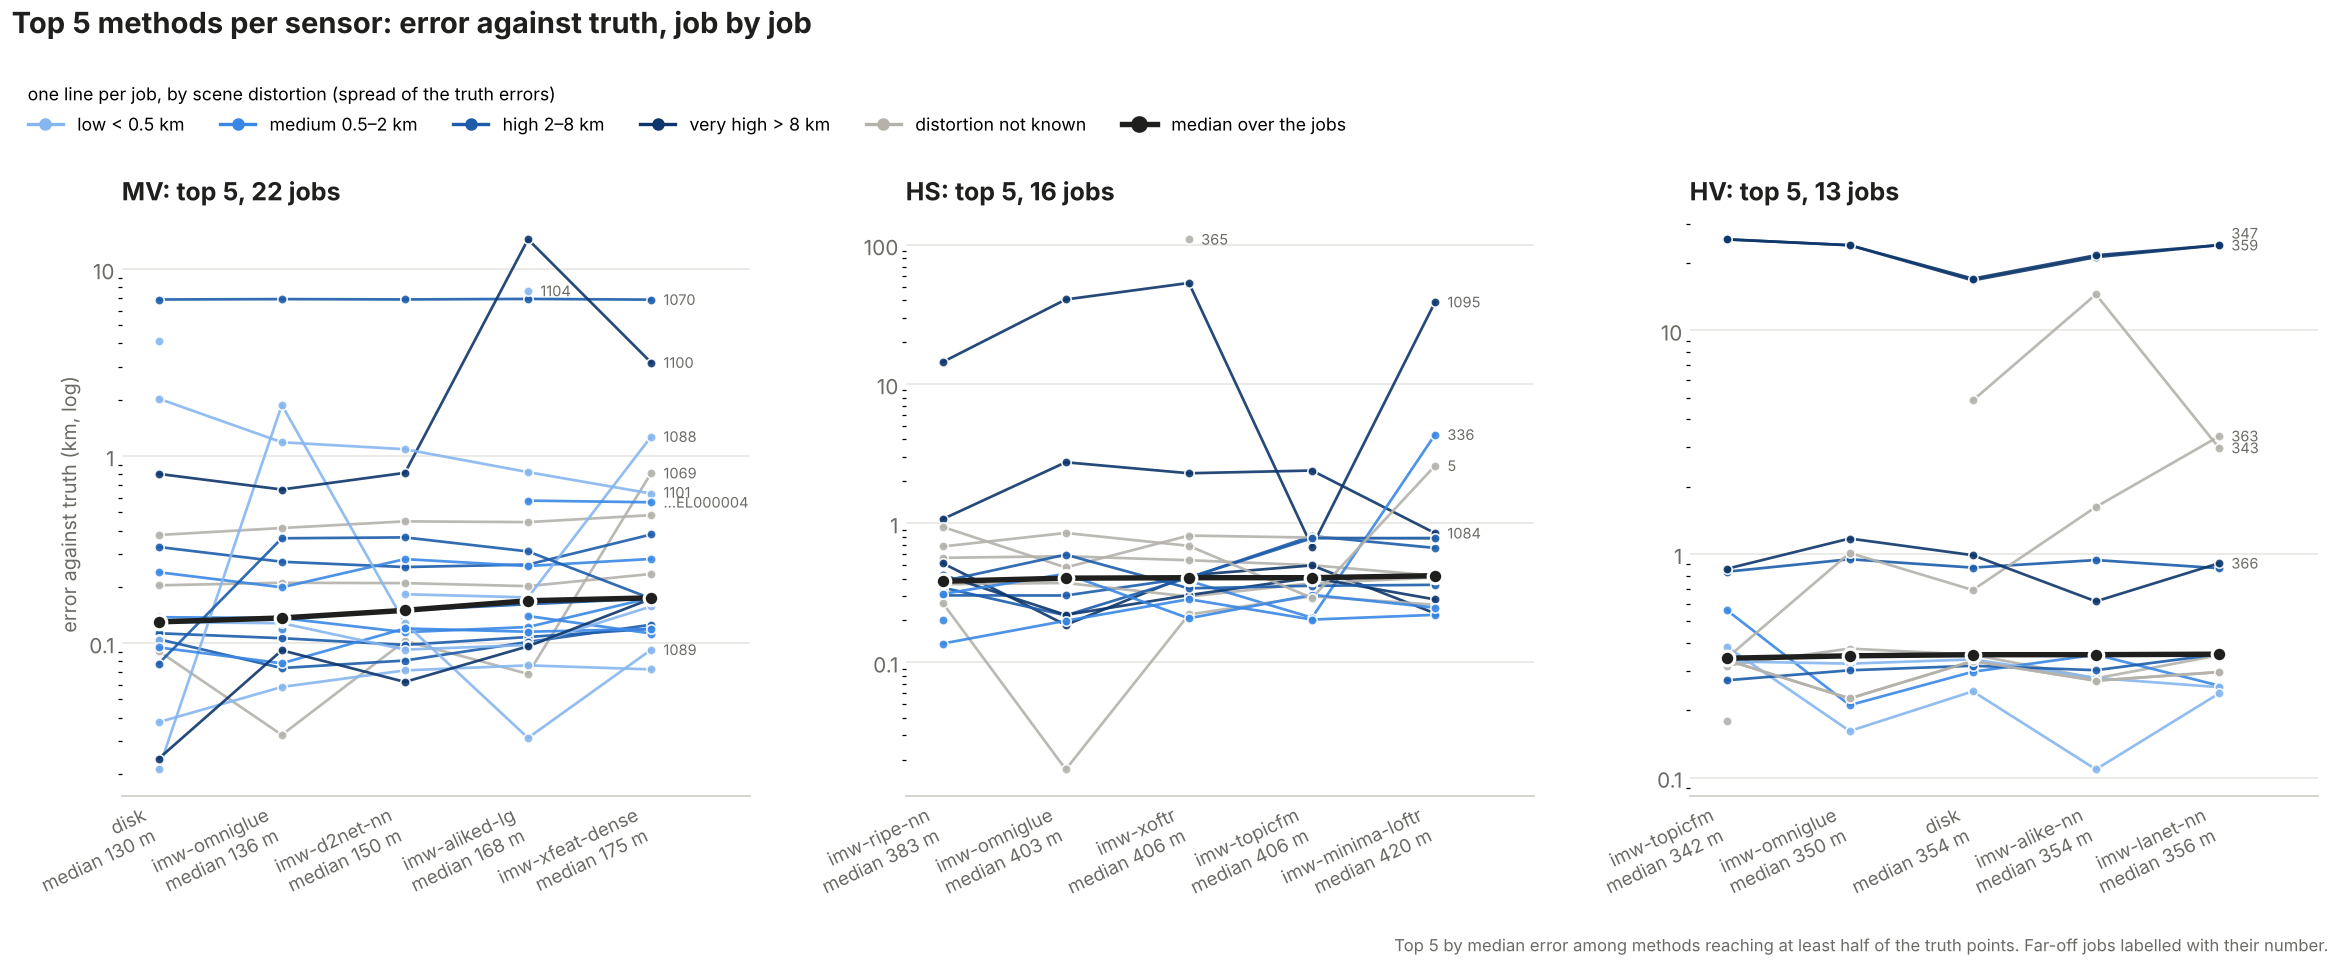
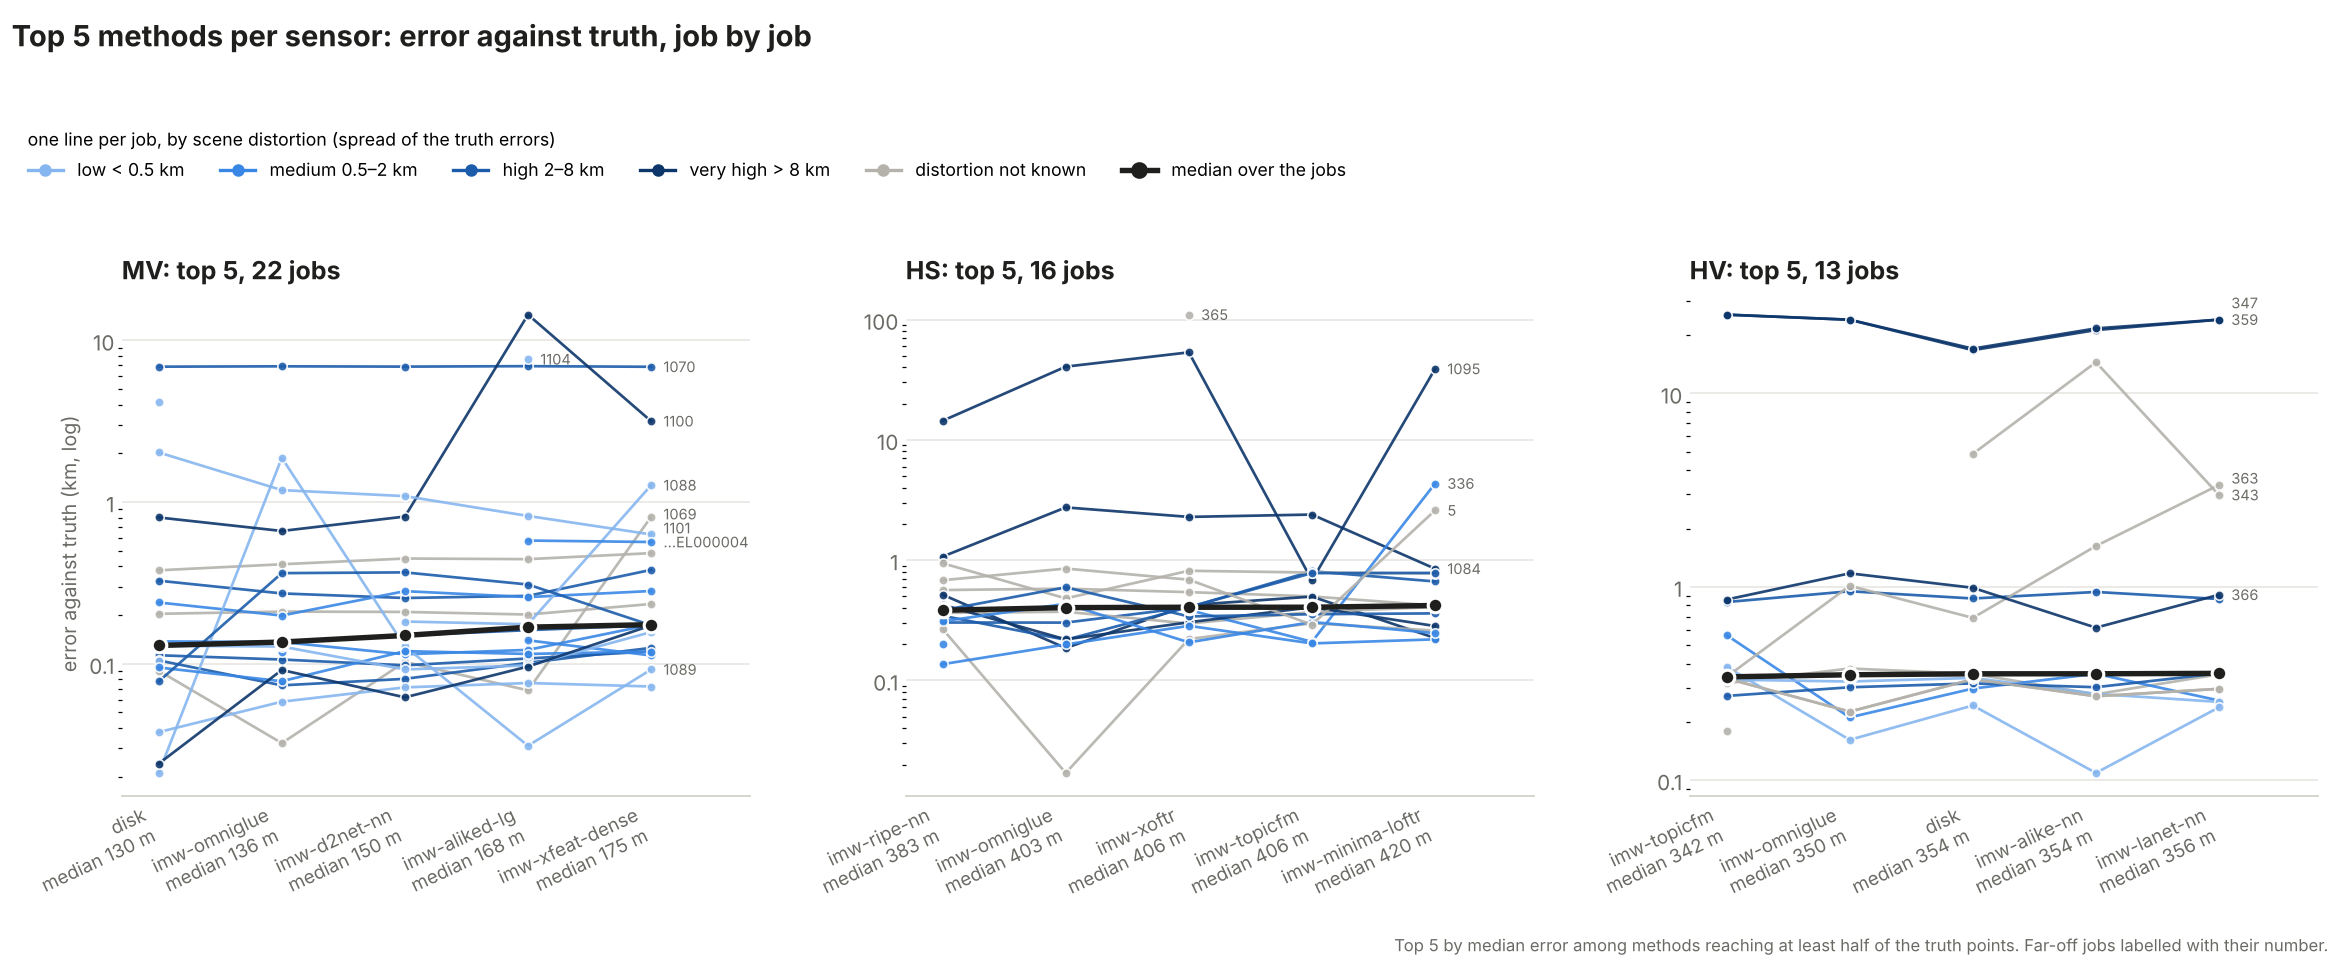
Plot: top 10 methods per sensor for jobs above 400 (and later workstation runs), smooth lines
Server jobs above --after-job (400) plus the workstation runs started after
the first of them; one smooth (shape-preserving, log) curve per job through
its truth errors with the top 10 methods (TOP10_BY_JOB_AFTER_400.png).

Claude-Session: https://claude.ai/code/session_0198cj5YTzAwzWGU6zUkU3Li

diff --git a/g1a_automatch/automatch_deviation.py b/g1a_automatch/automatch_deviation.py
@@ -49,6 +49,9 @@ def job_distortion(log_dir: str, job: str) -> Dict:
     txt = ''.join(open(p, errors='ignore').read() for p in sorted(glob.glob(os.path.join(log_dir, f'automatch_{base}*.log'))))
     m = SENSOR_RE.search(txt)
     r = {'job': job, 'sensor': m.group(1) if m else ''}
+    ts = re.search(r'(20\d\d)[-/](\d\d)[-/](\d\d)[ T](\d\d):(\d\d)', txt)
+    if ts:
+        r['started'] = '{}-{}-{} {}:{}'.format(*ts.groups())
     mm = MANUAL_RE.search(txt)
     if mm:
         n, me, mn, rme, rmn = map(float, mm.groups())
@@ -237,7 +240,32 @@ def top_detectors(t, top: int, min_reach: float = 0.5):
     return med.index[:top].tolist(), med
 
 
-def plot_lines(table, png: str, top: int = 5, min_reach: float = 0.5) -> str:
+def _smooth(x, y, n: int = 24):
+    """A smooth curve through (x, y) on a log y axis: shape-preserving cubic
+    (PCHIP) in log10(y), so it never overshoots between two methods; NaN gaps
+    split it."""
+    import numpy as np
+    from scipy.interpolate import PchipInterpolator
+    out = []
+    ok = np.isfinite(y)
+    i = 0
+    while i < len(x):
+        if not ok[i]:
+            i += 1
+            continue
+        j = i
+        while j + 1 < len(x) and ok[j + 1]:
+            j += 1
+        xs, ys = np.asarray(x[i:j + 1], float), np.log10(np.asarray(y[i:j + 1], float))
+        if len(xs) >= 2:
+            xx = np.linspace(xs[0], xs[-1], n * (len(xs) - 1) + 1)
+            out.append((xx, 10 ** PchipInterpolator(xs, ys)(xx)))
+        i = j + 1
+    return out
+
+
+def plot_lines(table, png: str, top: int = 5, min_reach: float = 0.5, smooth: bool = False,
+               title: str = '', note: str = '') -> str:
     """Per sensor, its top methods on the x axis, the truth error on the y axis,
     one line per job through its errors with those methods (colour: the scene's
     distortion level, grey when not known); the median over the jobs bold."""
@@ -251,9 +279,15 @@ def plot_lines(table, png: str, top: int = 5, min_reach: float = 0.5) -> str:
     sensors = [s for s in sensors
                if table[table['sensor'] == s].groupby('detector')['truth_rmse_m'].median().min() <= 10000.0]
     labels = [lab for _, _, lab in LEVELS]
-    fig, axes = plt.subplots(1, len(sensors), figsize=(5.2 * len(sensors), 6.4), squeeze=False)
+    rows = top > 5                                   # many methods: one sensor per row
+    if rows:
+        fig, axes = plt.subplots(len(sensors), 1, figsize=(13, 4.6 * len(sensors) + 1.6), squeeze=False)
+        axes = axes[:, 0]
+    else:
+        fig, axes = plt.subplots(1, len(sensors), figsize=(5.2 * len(sensors), 6.4), squeeze=False)
+        axes = axes[0]
     fig.patch.set_facecolor(SURFACE)
-    for ax, s in zip(axes[0], sensors):
+    for ax, s in zip(axes, sensors):
         t = table[table['sensor'] == s]
         dets, med = top_detectors(t, top, min_reach)
         piv = t[t['detector'].isin(dets)].pivot_table(index='job', columns='detector', values='truth_rmse_m',
@@ -265,25 +299,34 @@ def plot_lines(table, png: str, top: int = 5, min_reach: float = 0.5) -> str:
             lv = lvl.get(job, '')
             col = LEVEL_COLORS[labels.index(lv)] if lv in labels else UNKNOWN
             y = row.to_numpy(float)
-            ax.plot(x, y, color=col, lw=1.3, alpha=0.9, marker='o', markersize=4.5, markeredgecolor=SURFACE,
-                    markeredgewidth=0.8, zorder=2)
+            if smooth:
+                for xx, yy in _smooth(x, y):
+                    ax.plot(xx, yy, color=col, lw=1.3, alpha=0.9, zorder=2)
+                ax.plot(x, y, ls='', color=col, marker='o', markersize=4.5, markeredgecolor=SURFACE,
+                        markeredgewidth=0.8, zorder=3)
+            else:
+                ax.plot(x, y, color=col, lw=1.3, alpha=0.9, marker='o', markersize=4.5, markeredgecolor=SURFACE,
+                        markeredgewidth=0.8, zorder=2)
             last = np.where(np.isfinite(y))[0]
             if len(last) and np.nanmax(y) >= 3 * float(np.nanmedian(piv.to_numpy())):   # label the far-off jobs
                 k = last[-1]
                 tags.append([x[k], y[k], str(job) if len(str(job)) <= 10 else '…' + str(job)[-8:]])
-        tags.sort(key=lambda r: r[1])                       # spread the labels: at least 13 % apart (log axis)
+        tags.sort(key=lambda r: r[1])                       # spread the labels: at least 22 % apart (log axis)
         for i in range(1, len(tags)):
-            if tags[i][0] == tags[i - 1][0] and tags[i][1] < tags[i - 1][1] * 1.13:
-                tags[i][1] = tags[i - 1][1] * 1.13
+            if tags[i][0] == tags[i - 1][0] and tags[i][1] < tags[i - 1][1] * 1.22:
+                tags[i][1] = tags[i - 1][1] * 1.22
         for tx, ty, lab in tags:
             ax.text(tx + 0.1, ty, lab, fontsize=7, color=MUTED, va='center')
-        ax.plot(x, [med[d] / 1000.0 for d in dets], color=INK, lw=2.6, marker='o', markersize=7,
-                markeredgecolor=SURFACE, markeredgewidth=1.5, zorder=4)
+        my = np.array([med[d] / 1000.0 for d in dets])
+        for xx, yy in (_smooth(x, my) if smooth else [(x, my)]):
+            ax.plot(xx, yy, color=INK, lw=2.6, zorder=4)
+        ax.plot(x, my, ls='', color=INK, marker='o', markersize=7, markeredgecolor=SURFACE, markeredgewidth=1.5,
+                zorder=5)
         ax.set_yscale('log')
         ax.yaxis.set_major_formatter(matplotlib.ticker.FuncFormatter(lambda v, _p: f'{v:g}'))
         ax.set_xticks(x)
-        ax.set_xticklabels([f'{d}\nmedian {med[d]:.0f} m' for d in dets], rotation=25, ha='right', fontsize=9,
-                           color=INK)
+        ax.set_xticklabels([f'{d}\nmedian {med[d]:.0f} m' for d in dets], rotation=0 if rows else 25,
+                           ha='center' if rows else 'right', fontsize=8.5 if rows else 9, color=INK)
         ax.set_xlim(-0.3, len(dets) - 0.2)
         ax.grid(axis='y', color='#e7e6e2', lw=0.8, zorder=0)
         ax.tick_params(length=0, colors=MUTED)
@@ -292,19 +335,23 @@ def plot_lines(table, png: str, top: int = 5, min_reach: float = 0.5) -> str:
         ax.spines['bottom'].set_color('#cfcdc6')
         ax.set_title(f'{s}: top {len(dets)}, {len(piv)} jobs', loc='left', fontsize=12, fontweight='bold',
                      color=INK)
-    axes[0][0].set_ylabel('error against truth (km, log)', fontsize=9.5, color=MUTED)
+    for ax in (axes if rows else axes[:1]):
+        ax.set_ylabel('error against truth (km, log)', fontsize=9.5, color=MUTED)
     handles = [Line2D([], [], color=c, lw=1.6, marker='o', markersize=5, label=lab.replace('\n', ' '))
                for c, lab in zip(LEVEL_COLORS, labels)]
     handles += [Line2D([], [], color=UNKNOWN, lw=1.6, marker='o', markersize=5, label='distortion not known'),
                 Line2D([], [], color=INK, lw=2.6, marker='o', markersize=7, label='median over the jobs')]
-    fig.legend(handles=handles, loc='upper left', bbox_to_anchor=(0.005, 0.93), ncol=6, frameon=False,
+    top_y = 1 - 0.75 / fig.get_figheight()
+    fig.legend(handles=handles, loc='upper left', bbox_to_anchor=(0.005, top_y), ncol=6, frameon=False,
                fontsize=8.5, title='one line per job, by scene distortion (spread of the truth errors)',
                title_fontsize=8.5, alignment='left')
-    fig.text(0.005, 0.995, 'Top 5 methods per sensor: error against truth, job by job', ha='left', va='top',
+    fig.text(0.005, 1 - 0.12 / fig.get_figheight(),
+             title or f'Top {top} methods per sensor: error against truth, job by job', ha='left', va='top',
              fontsize=14, fontweight='bold', color=INK)
-    fig.text(0.995, 0.005, 'Top 5 by median error among methods reaching at least half of the truth points. '
-             'Far-off jobs labelled with their number.', ha='right', va='bottom', fontsize=8, color=MUTED)
-    fig.tight_layout(rect=(0, 0.03, 1, 0.84), w_pad=2.0)
+    fig.text(0.995, 0.005, (note + '   ' if note else '') + f'Top {top} by median error among methods reaching at '
+             'least half of the truth points. Far-off jobs labelled with their number.', ha='right', va='bottom',
+             fontsize=8, color=MUTED)
+    fig.tight_layout(rect=(0, 0.03, 1, 1 - 1.55 / fig.get_figheight()), w_pad=2.0, h_pad=2.5)
     fig.savefig(png, dpi=150, facecolor=SURFACE)
     plt.close(fig)
     return png
@@ -389,10 +436,34 @@ def plot(table, jobs, png: str, min_jobs: int = 2) -> str:
     return png
 
 
+def is_workstation(job: str) -> bool:
+    """A workstation run: not a server job number (a product name, or a long ID)."""
+    b = str(job).split('_')[0]
+    return not b.isdigit() or int(b) >= 100000
+
+
+def recent_jobs(jobs, after_job: int):
+    """(server jobs above after_job, plus the workstation runs that started at
+    or after the first of them; that start time)."""
+    server = jobs[[not is_workstation(j) and int(str(j).split('_')[0]) > after_job for j in jobs['job']]]
+    if server.empty:
+        return [], ''
+    since = str(server['started'].dropna().min()) if 'started' in server else ''
+    ws = jobs[[is_workstation(j) for j in jobs['job']]]
+    if since and 'started' in ws:
+        ws = ws[ws['started'].astype(str) >= since]
+    else:
+        ws = ws.iloc[0:0]
+    return server['job'].tolist() + ws['job'].tolist(), since
+
+
 def main(argv=None) -> int:
     ap = argparse.ArgumentParser(description=__doc__.split('\n\n')[0])
     ap.add_argument('log_dir', nargs='?', default=os.path.join(os.path.dirname(os.path.abspath(__file__)), 'log'))
     ap.add_argument('--out', default='', help='where the plot and tables go (default: the log folder)')
+    ap.add_argument('--after-job', type=int, default=400,
+                    help='also a plot of only the server jobs above this number and the workstation runs that '
+                         'started after the first of them (default 400)')
     a = ap.parse_args(argv)
     out = a.out or a.log_dir
     os.makedirs(out, exist_ok=True)
@@ -405,6 +476,15 @@ def main(argv=None) -> int:
     top_png = plot_top(table, jobs, os.path.join(out, 'TOP_DETECTORS_DEVIATION.png'))
     lines_png = plot_lines(table, os.path.join(out, 'TOP5_BY_JOB.png'))
     print(f"{jobs['job'].nunique()} job(s) with truth -> {top_png}, {lines_png}")
+    sel, since = recent_jobs(jobs, a.after_job)
+    if sel:
+        rt = table[table['job'].isin(sel)]
+        n_ws = sum(1 for j in sel if is_workstation(j))
+        png = plot_lines(rt, os.path.join(out, f'TOP10_BY_JOB_AFTER_{a.after_job}.png'), top=10, smooth=True,
+                         title=f'Top 10 methods per sensor: error against truth, jobs above {a.after_job} '
+                               f'(and workstation runs since {since})',
+                         note=f'{len(sel) - n_ws} server + {n_ws} workstation job(s).')
+        print(f'{len(sel)} job(s) above {a.after_job} / since {since} -> {png}')
     jobs, table = jobs[jobs['level'] != ''], table[table['level'] != '']
     jobs.round(1).to_csv(os.path.join(out, 'DEVIATION_JOBS.csv'), index=False)
     agg = stats(table)
